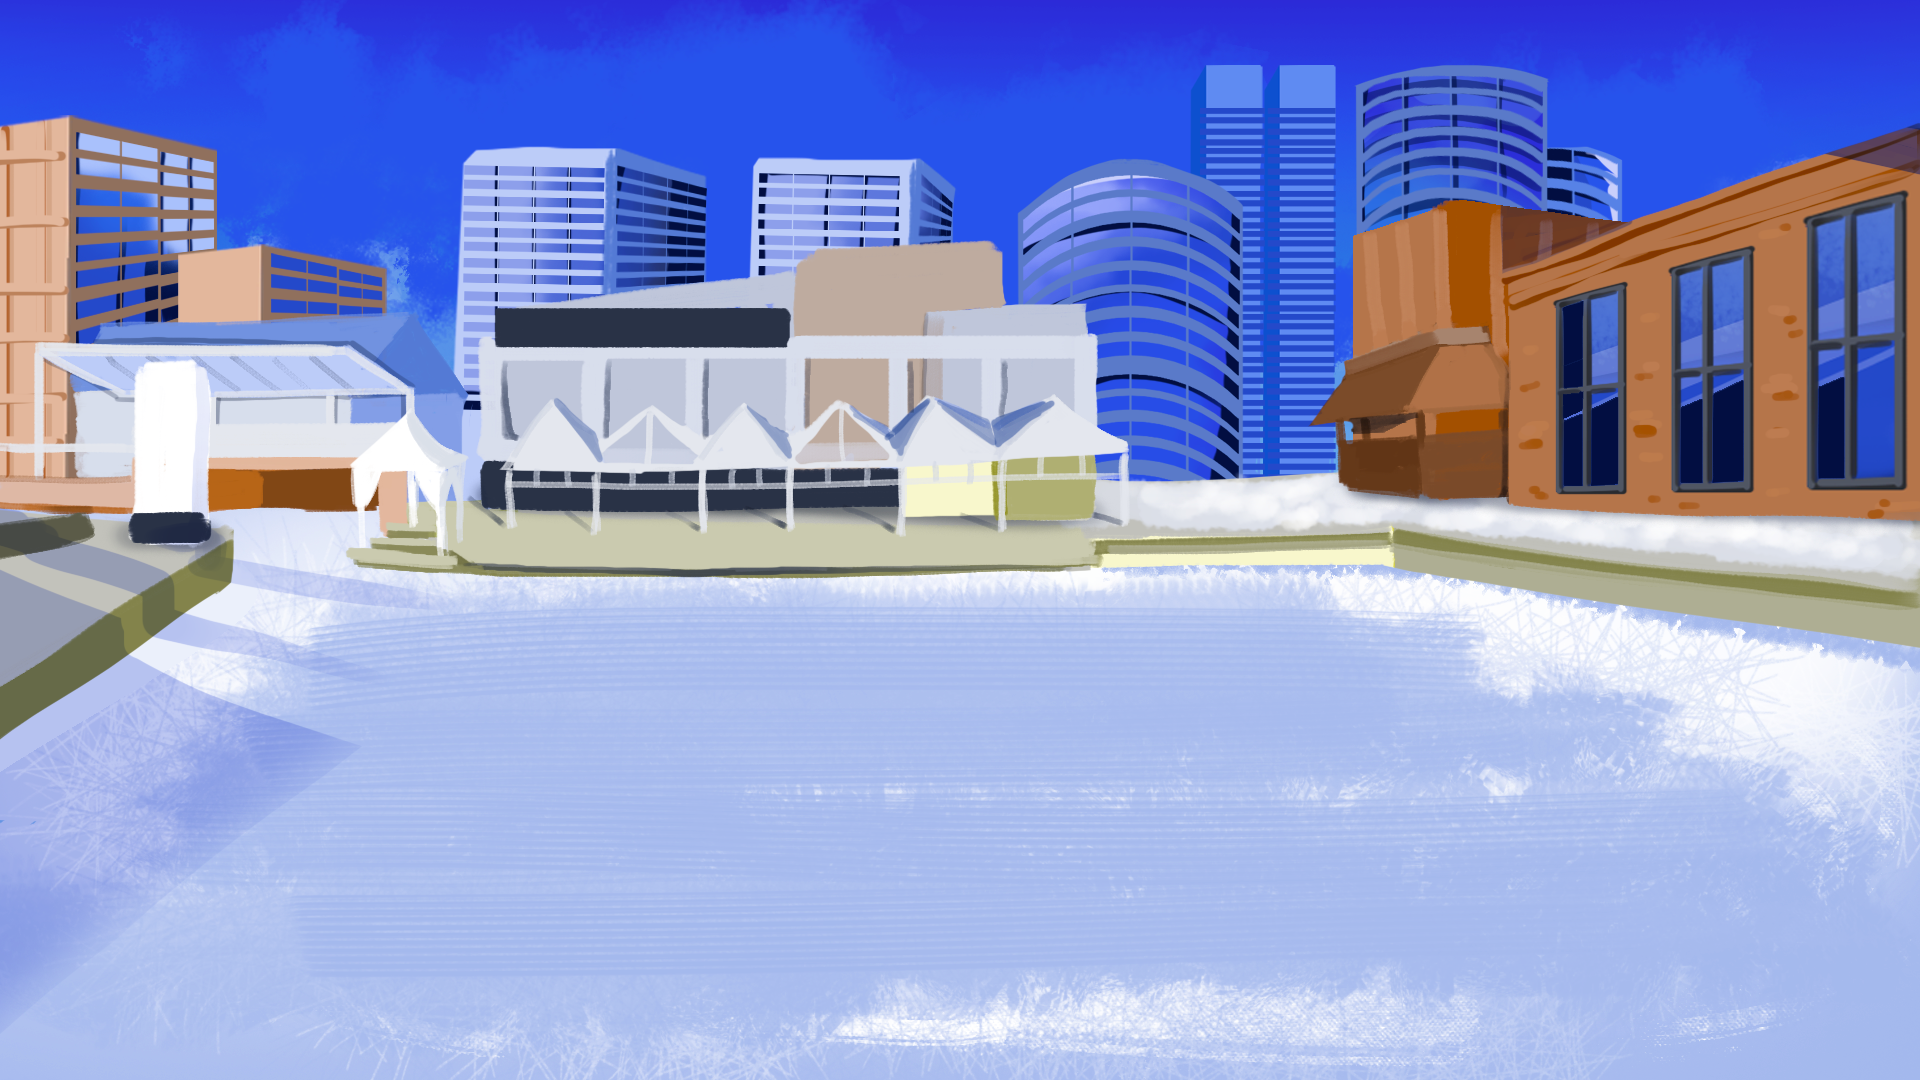
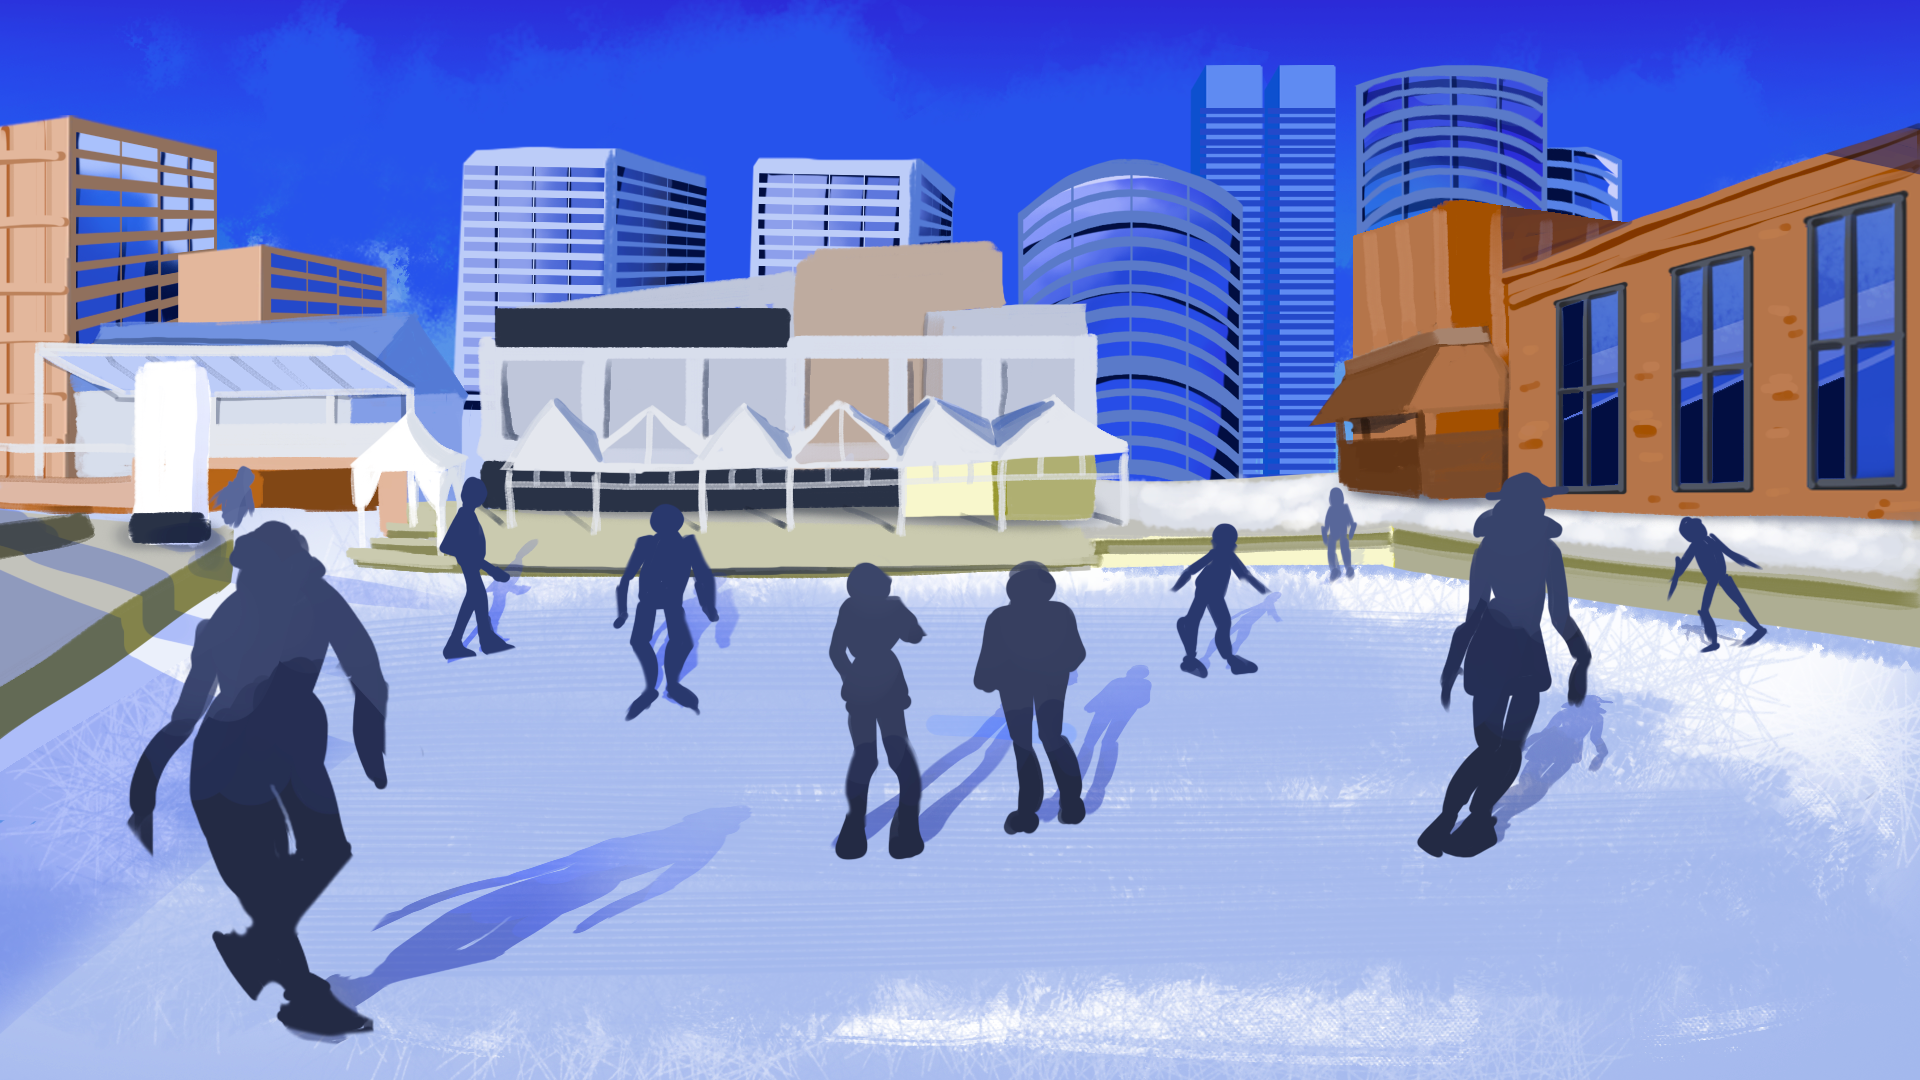
added new bgs

diff --git a/index.html b/index.html
@@ -275,7 +275,7 @@
             }
 
             if (shown.includes("Imperial")) {
-                setBackground("./Assets/StockRoomExample.png");
+                setBackground("./Assets/Backgrounds/Scene2.png");
             }
 
             if (shown.includes("TRSM")) {
